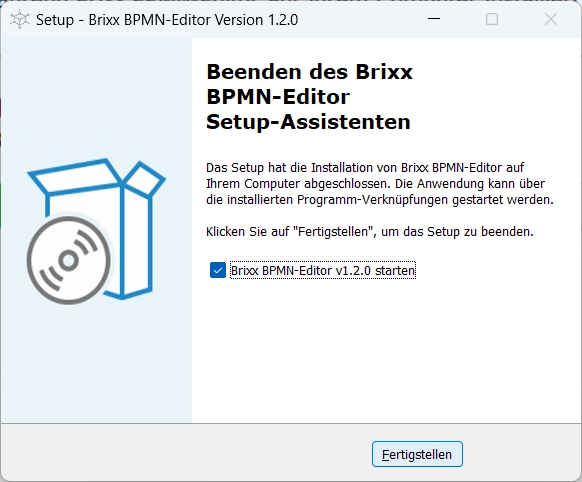
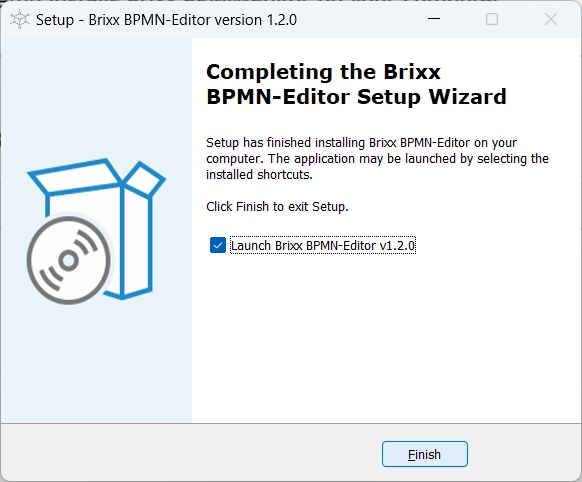
Update documentation

diff --git a/brixx-bpmn-editor/README.md b/brixx-bpmn-editor/README.md
@@ -8,8 +8,6 @@
 
 #
 
-> This document is in progress. For further information on the use of Brixx-Script please feel free to contact [`info@brixx.it`](info@brixx.it)
-
 # Define your process without programming
 
 ## Model processes and workflows
@@ -17,7 +15,7 @@
 With our Brixx BPMN editor for process modeling, all types of business and industrial processes can be mapped with Business Process Model and Notation ( BPMN ) and made available with one click.
 
 -   [Get started](#getstarted)
--   [Install Brixx BPMN-Editor](#installation)
+-   [Install Brixx BPMN-Editor](#setup)
     -   [Windows installer](#windows)
 -   [Brixx BPMN-Editor Tutorial](#tutorial)
 -   [Brixx BPMN-Editor Referenz](#reference)
@@ -29,7 +27,7 @@ With our Brixx BPMN editor for process modeling, all types of business and indus
 
 <a href="https://brixx.it/bpmn-editor/index.html" target="_blank"  title="Brixx BPMN-Editor (Try it Online)" alt="Brixx BPMN-Editor (Try it Online)">Brixx BPMN-Editor</a> Version 1.2.0 mit BPMN 2.0 Standard (Try it Online)
 
-# <div id='installation' /> Install Brixx BPMN-Editor
+# <div id='setup' /> Install Brixx BPMN-Editor
 
 ## <div id='windows' /> <i class="fa-brands fa-windows"></i> Windows Installer
 
@@ -39,23 +37,23 @@ Select [OK]
 
 <img src="../assets/images/bpmn-editor-installer-02.webp" style="margin-bottom: -5px; width: 450px;" />
 
-Select [Weiter]
+Select [Next]
 
 <img src="../assets/images/bpmn-editor-installer-03.webp" style="margin-bottom: -5px; width: 450px;" />
 
-Select [Weiter]
+Select [Next]
 
 <img src="../assets/images/bpmn-editor-installer-04.webp" style="margin-bottom: -5px; width: 450px;" />
 
-Select [Imstallieren]
+Select [Imstall]
 
 <img src="../assets/images/bpmn-editor-installer-05.webp" style="margin-bottom: -5px; width: 450px;" />
 
-BPMN-Editor wird installiert ...
+Installation in progress ...
 
 <img src="../assets/images/bpmn-editor-installer-06.webp" style="margin-bottom: -5px; width: 450px;" />
 
-Select [Fertigstellen]
+Select [Finish]
 
 Nach der Installation steht der BPMN-Editor unter http://localhost:3000 zur Verfügung und wird im Standard-Browser geöffnet. 
  

diff --git a/brixx-process-engine/README.md b/brixx-process-engine/README.md
@@ -50,11 +50,11 @@ With our workflow management system, all types of processes and workflows can be
 With [Brixx-Process-Script](../brixx-process-script/README.md), processes and workflows can be created requirement-oriented and integrated into web applications with HTML and JavaScript. This allows applications with the Four Eyes
 Principle (Two-man rule), multi-level forms, or web applications for processing with different actors as an example to be created quickly and easily.
 
--   [Brixx-Process-Engine installieren](#installation)
+-   [Brixx-Process-Engine installieren](#setup)
 -   [Brixx-Process-Engine Referenz](#reference)
 -   [Downloads](#downloads)
 
-# <div id='installation' /> Brixx-Process-Engine installieren
+# <div id='setup' /> Brixx-Process-Engine installieren
 
 # <div id='reference' /> Brixx-Process-Engine Referenz
 
